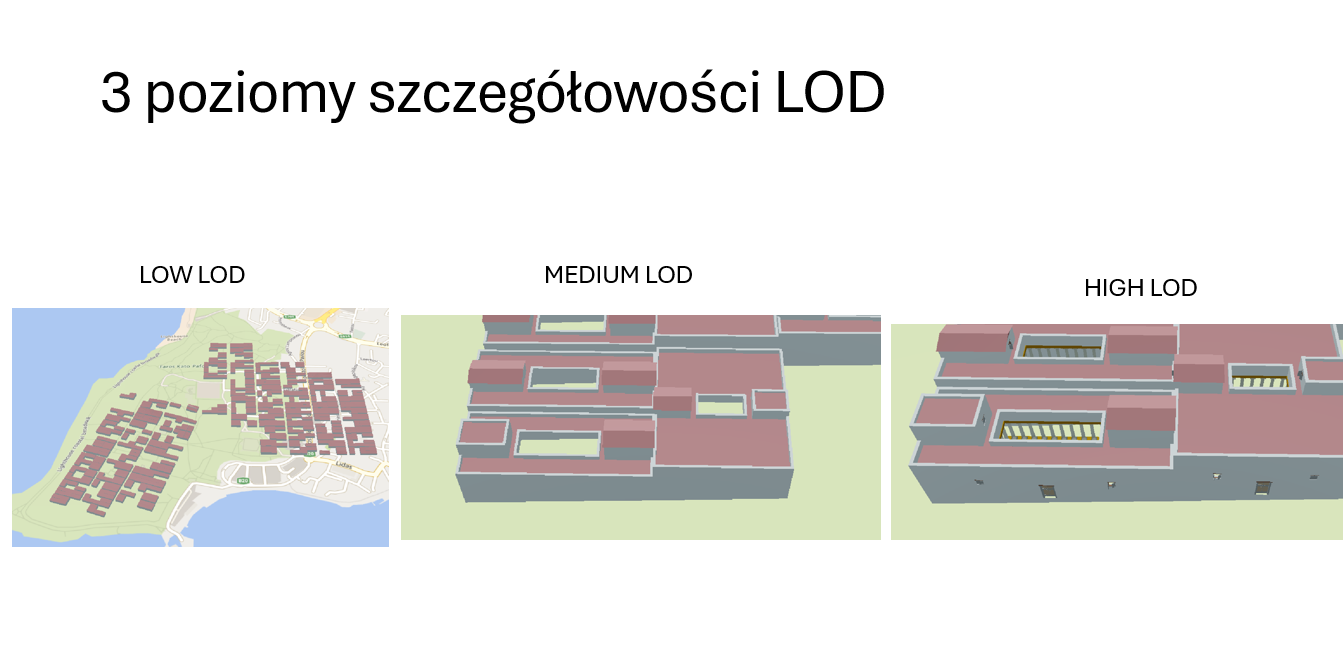
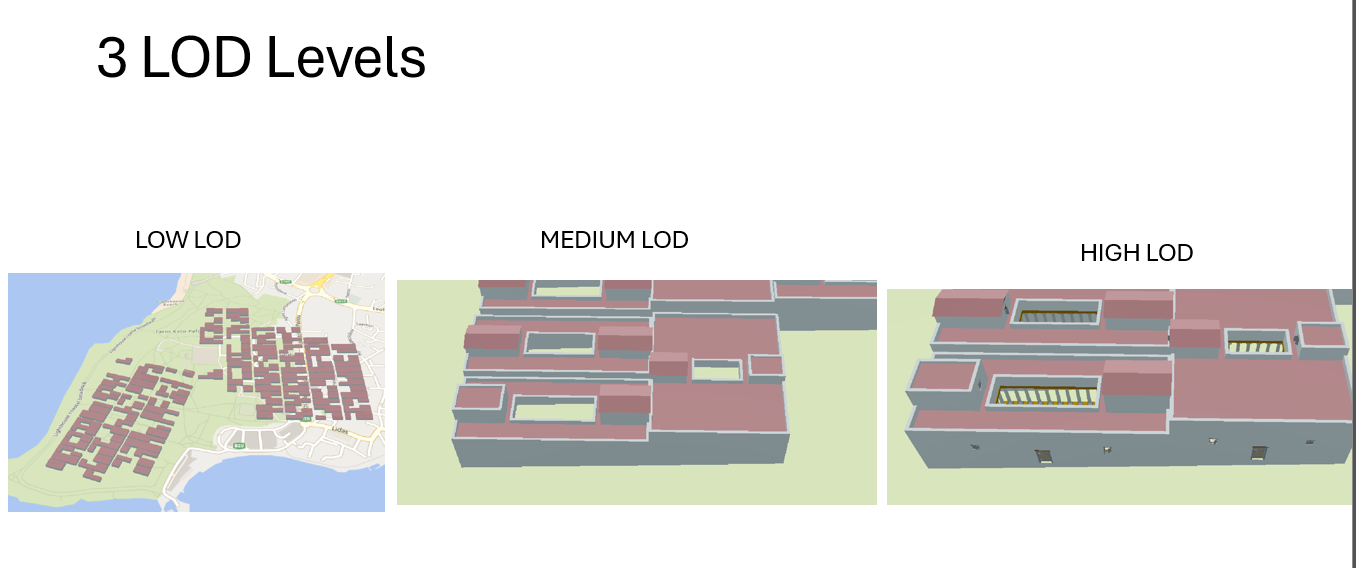
Translate README to English

diff --git a/README.md b/README.md
@@ -1,39 +1,46 @@
 # Procedural Models in Cesium
+## Scripts for visualizing 3D models generated through procedural modeling.
 
-# Skrypty do wizualizacji modeli 3D powstałych w wyniku modelowania proceduralnego
+This repository includes Python scripts that generate tileset.json configuration files defining how 3D models are visualized at various Levels of Detail (LODs) in Cesium.
 
-Skrypty tworzące pliki konfiguracyjne `tileset.json` określajace sposób wizualizacji modeli 3D na róznych poziomach szczegółowości:
 
-- `scripts/main_create_buildings_tileset.py` - kafelkowanie najniższego poziomu LOW LOD, zmapowanie modeli per budynek mieszkalny na poziomach Medium oraz Hight
+## Overview of Scripts
+- `scripts/main_create_buildings_tileset.py` - Tiles the base LOW LOD model and maps per-building models at Medium and High LODs.
 
-- `scripts/main_create_agora_tileset.py` - trzy poziomy szczegółowości generowania modeli 3D budynków tworzących agorę
+- `scripts/main_create_agora_tileset.py` - Generates three LODs for the agora buildings.
 
-- `scripts/main_create_citywall_tileset.py` - zmapowanie modeli 3D muru miejskiego
+- `scripts/main_create_citywall_tileset.py` - Maps 3D models of the city wall.
 
-- `scripts/main_create_roads_tileset.py` - zmapowanie modeli 3D dróg
+- `scripts/main_create_roads_tileset.py` - Maps 3D models of the roads.
 
-- `scripts/main_create_molo_tileset.py` - zmapowanie modeli 3D mola
+- `scripts/main_create_molo_tileset.py` - Maps 3D models of the pier.
 
 ![Poziomy LOD](img/pafos-cale.png) 
 
-## Skrypt do tworzenia konfiguracji dla budynków miejskich
+## Creating a Tileset for Residential Buildings
 `main_create_buildings_tileset.py`
+This script takes a single ROOT model (containing all buildings), and tiles it three times by splitting it into four parts at each level. Finally, it adds individual building models for Medium and High LODs.
 
 ![Poziomy LOD](img/poziomy-lod.png) 
 
-Skrypt przyjmuje model ROOT jako jeden model skłądający się z wszystkich budynków. Następnie kafeluje ten model trzykrotnie - za każdym razem dzieli model na cztery części. Na końcu dodawane są modele pojedynczych budynków na poziomie Medium, a nastęnie na poziomie High.
-
 ![Poziomy LOD](img/bud_podzial.JPG) 
 
-W skrypcie należy zdefiniować:
--  `TILESET_DIR = "./test/tilesets/homes/"`
-    (ścieżka do nadrzędnego folderu tilesetu)
-- `ROOT_URI = "tiles/0/LOD0_0.glb"` (ścieżka do modelu root, który będzie później kafelkowany przez skrypt)
-- `TRANSFORM = [...]` (macierz transformacji 4x4 do ustawienia lokalizacji i orientacji tilesetu)
+Required definitions in the script:
+-  `TILESET_DIR = "./test/tilesets/homes/"` - Path to the root directory of the tileset.
+    
+- `ROOT_URI = "tiles/0/LOD0_0.glb"` - Path to the ROOT model to be tiled.
+- `TRANSFORM = [...]` - 4x4 transformation matrix defining the tileset's position and orientation.
 
-*Istotne jest, aby właściwie w odpowiedniej strukturze umieścić model ROOT (tiles/0) oraz poziomy LOD Medium (tiles/4) oraz High (tiles/5). Modele per budynek na poziomie Medium oraz High powinny mieć takie same nazwy.*
+**Important:**
+- Ensure the following folder structure is respected:
 
-Wynikiem skryptu jest plik `tileset.json` definiujący hierarchie modeli. Jest on generowany w folderze tilesetu - `TILESET_DIR`.
+- The ROOT model should be placed under tiles/0/.
+
+- Medium and High LOD models per building should be placed in tiles/4/ and tiles/5/, respectively.
+
+- Medium and High LOD models must use the same filenames for proper matching.
+
+The script generates a `tileset.json` file that defines the model hierarchy. It is created in the tileset directory specified by `TILESET_DIR`.
 
 
 ```
@@ -42,84 +49,83 @@ tileset_name/ (TILESET_DIR)
 │   ├── 0
 │        ── LOD0_0.glb
 │   ├── 1
-│        ── (kafelkowane modele generowane przez skrypt)
+│   
 │   └── 2
-│        ── (kafelkowane modele generowane przez skrypt)
-│   └── 3
-│        ── (kafelkowane modele generowane przez skrypt)
-│   └── 4 (model per budynek)
+│        ── (tiled versions auto-generated by the script)
+│   └── 4 (Medium LOD per-building models)
 │        ── LOD_Block_1_8.glb
 │        ── LOD_Block_1_9.glb
 │        ── ...
-│   └── 5 (model per budynek)
+│   └── 5 (High LOD per-building models)
 │        ── LOD_Block_1_8.glb
 │        ── LOD_Block_1_9.glb
 │        ── ...
-└── tileset.json (wynikowy plik generowany przez skrypt)
+└── tileset.json (generated by the script)
 ```
 
-## Skrypt do tworzenia konfiguracji dla budynków Agory
+## Creating a Tileset for Agora Buildings
 `main_create_agora_tileset.py`
 
 ![Poziomy LOD](img/lod-agora.png) 
 
-Analogicznie jak w przypadku budynków mieszkalnych należy zdefiniować:
+Required definitions in the script:
 -  `TILESET_DIR = "./test/tilesets/agora/"`
-    (ścieżka do nadrzędnego folderu tilesetu)
-- `ROOT_URI = "tiles/0/agora_0.glb"` (ścieżka do modelu root - poziom LOW LOD)
-- `TRANSFORM = [...]` (macierz transformacji 4x4 do ustawienia lokalizacji i orientacji tilesetu)
+- `ROOT_URI = "tiles/0/agora_0.glb"` - LOW LOD model
+- `TRANSFORM = [...]` 
 
-*Istotne jest, aby w odpowiedniej strukturze umieścić modele na poziomach LOD Low (tiles/0), Medium (tiles/1) oraz High (tiles/2)*
+*It is important to place the models at the Low (tiles/0), Medium (tiles/1), and High (tiles/2) LOD levels in the correct folder structure.*
 
 ```
 tileset_name/ (TILESET_DIR)
 ├── tiles/
 │   ├── 0
 │        ── agora_0.glb
-│   └── 1 (model per budynek)
+│   └── 1 (Medium LOD)
 │        ── agora_Shape_0.glb
 │        ── agora_Shape_1.glb
 │        ── ...
-│   └── 2 (model per budynek)
+│   └── 2 (High LOD)
 │        ── agora_Shape_0.glb
 │        ── agora_Shape_1.glb
 │        ── ...
-└── tileset.json (wynikowy plik generowany przez skrypt)
+└── tileset.json (output file generated by script)
 ```
 
-## Skrypty do tworzenia konfiguracji dla murów miejskich, dróg, mola
+## Creating Tilesets for City Walls, Roads, and Pier
 `main_create_citywall_tileset.py`
 `main_create_roads_tileset.py`
 `main_create_molo_tileset.py`
 
-Analogicznie jak w przypadku wcześniejszych skryptów należy zdefiniować:
+Each script requires defining:
 -  `TILESET_DIR = "./test/tilesets/citywall/"`
-    (ścieżka do nadrzędnego folderu tilesetu)
-- `ROOT_URI = "tiles/0/mury_0.glb"` (ścieżka do modelu root)
-- `TRANSFORM = [...]` (macierz transformacji 4x4 do ustawienia lokalizacji i orientacji tilesetu)
+    (path to content folder of tileset)
+- `ROOT_URI = "tiles/0/mury_0.glb"` (path to root model)
+- `TRANSFORM = [...]` (4x4 matrix for tileset placement)
 
-*Istotne jest, aby w odpowiedniej strukturze umieścić model na poziomie LOD Low (tiles/0)*
+*It is important to place the model at the Low LOD level (tiles/0) in the correct folder structure.*
 
+**Folder structure example (same for roads and pier):**
 ```
 tileset_name/ (TILESET_DIR)
 ├── tiles/
 │   ├── 0
 │        ── mury_0.glb
-└── tileset.json (wynikowy plik generowany przez skrypt)
+└── tileset.json (output file generated by script)
 ```
 
-Powyższy przykład dla muru jest analogiczny dla dróg oraz mola.
 
 
-## Uruchomienie skryptów
-### Docker oraz Blender Python API
-Projekt wykorzystuje środowisko Docker z preinstalowanym Blenderem, którego Python API jest wykorzystywane do analizy modeli 3D (np. wyznaczanie Bbox'ów modeli) oraz przetwarzania modeli 3D (podział modelu na mniejsze części - kafelkowanie).
+## Running the Scripts
+### Using Docker oraz Blender Python API
+This project uses a Docker environment with Blender pre-installed. Blender's Python API is used for operations like calculating bounding boxes and splitting large models into tiles.
 
-Opracowane skrypty Pythona wykorzystujące API Blendera uruchamiane są bezpośrednio w środku kontenera, z użyciem poniższej komendy:
+**To run a script inside the Docker container:**
 
 `blender --background --python ./scripts/main_create_buildings_tileset.py`
 
-Zalecane jest uruchamianie projektu w devcontainerze (np. z poziomu Visual Studio Code) opartym o dostarczony **Dockerfile**, ponieważ:
-- Docker zapewnia powtarzalne środowisko z odpowiednią wersją Blendera
-- Devcontainer pozwala wygodnie podłączać lokalne pliki i wolumeny (volumes), co ma kluczowe znaczenie przy przygotowywaniu danych wejściowych (modeli 3D na różnych poziomach szczegółowości LOD)
-- Umożliwia pracę bezpośrednio wewnątrz kontenera z pełnym dostępem do terminala, Blendera i kodu źródłowego
+
+**Recommended: Use Dev Containers (e.g., in Visual Studio Code)**
+Why use a dev container?
+- Docker ensures a consistent Blender environment.
+- Dev containers simplify file sharing between host and container.
+- Full terminal access to Blender and source code within the container.
